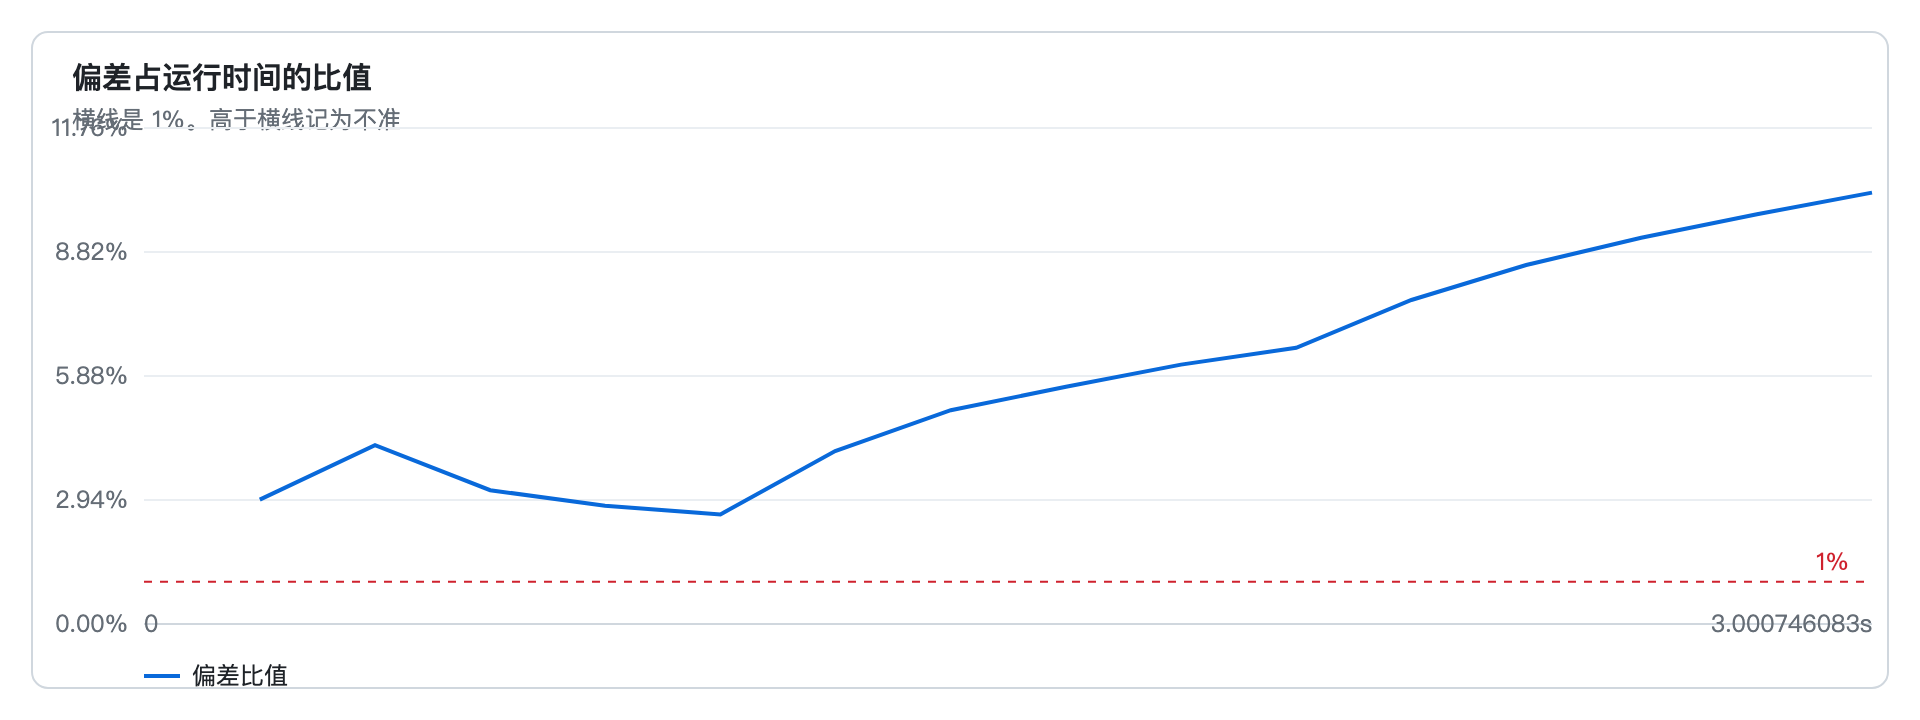
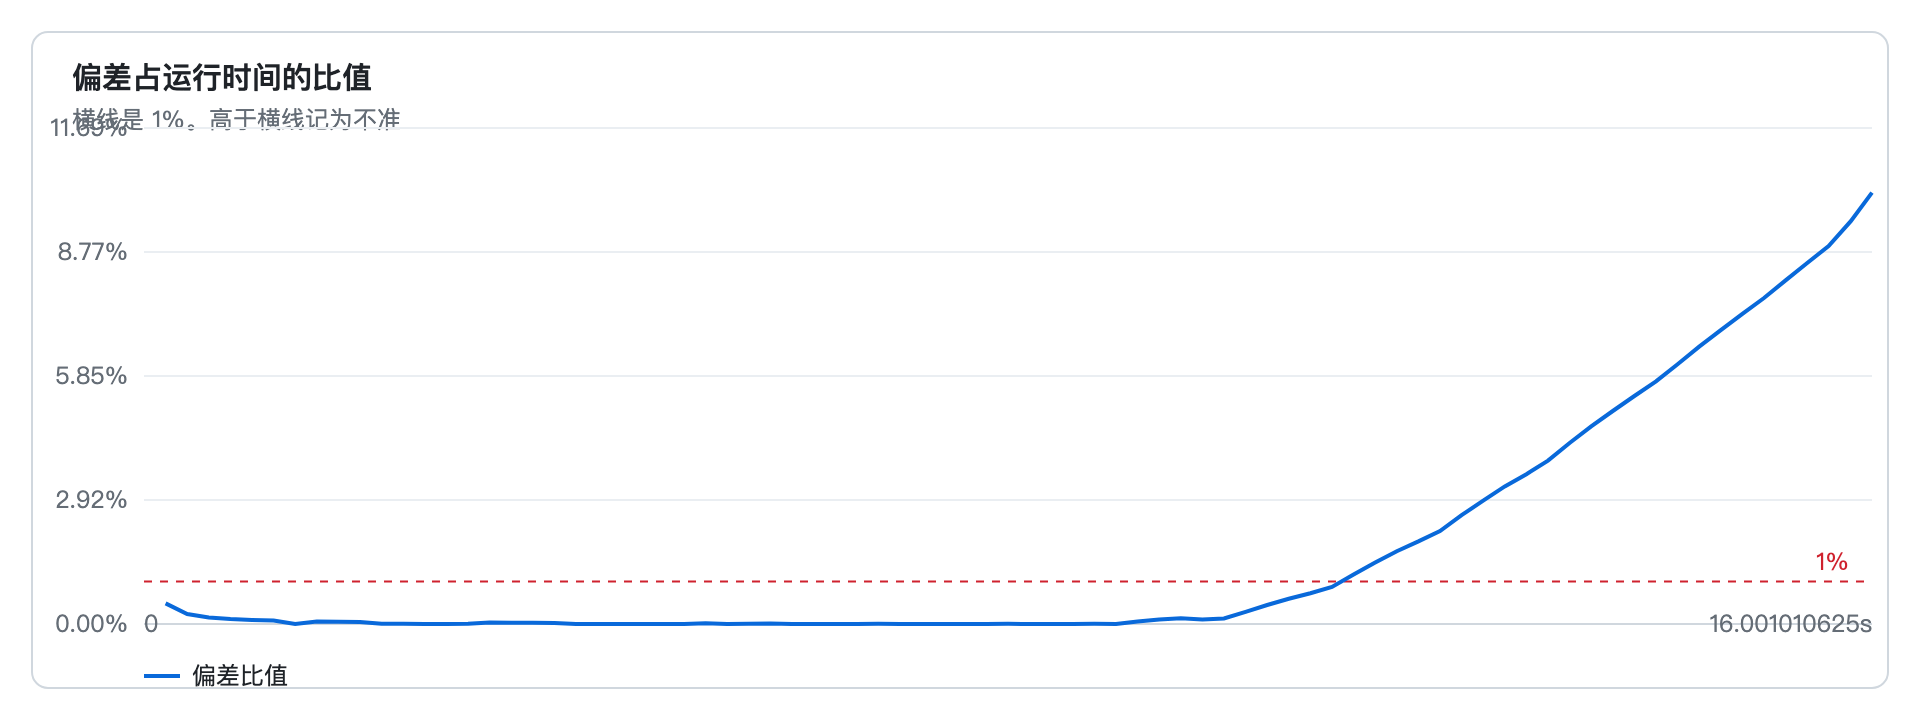
fix: 时钟基准从 1000 条打包线开始

diff --git a/example/bench/clock.go b/example/bench/clock.go
@@ -13,7 +13,7 @@ const (
 	clockLimit     = 0.01
 	clockBlowup    = 0.10
 	clockRampMax   = 5 * time.Minute
-	clockLineStart = 10000
+	clockLineStart = 1000
 	clockLineBatch = 1000
 	clockLineEvery = time.Second
 	clockChartW    = 960

diff --git a/README.md b/README.md
@@ -504,20 +504,21 @@ go run ./example/bench -duration 30s
 #### 负载
 
 <!-- clock:start -->
-真实模式。从 10000 条打包线开始，每秒增加 1000 条，最多测 5 分钟。每条线到货时查商品、扣库存，再记下出货。小包和文件扫描、打包各等 2ms，大包和易碎扫描等 4ms、打包等 3ms，下一单再等 5ms。等待是仿真延迟，处理函数不做空转。比值超过 1% 记为不准，达到 10% 停止。测量到 3.001s。
+真实模式。从 1000 条打包线开始，每秒增加 1000 条，最多测 5 分钟。每条线到货时查商品、扣库存，再记下出货。小包和文件扫描、打包各等 2ms，大包和易碎扫描等 4ms、打包等 3ms，下一单再等 5ms。等待是仿真延迟，处理函数不做空转。比值超过 1% 记为不准，达到 10% 停止。测量到 16.001s。
 
 ![偏差占运行时间的比值](example/bench/clock.png)
 
 | 线条 | 运行 | 仿真 | 偏差 | 比值 | 结论 |
 | ---: | --- | --- | --- | ---: | --- |
-| 10000 | 200.928ms | 195ms | 5.928ms | 2.9504% | 越过 1% |
-| 12000 | 3.001s | 2.694s | 306.746ms | 10.2223% | 离谱 |
+| 12000 | 11.201s | 11.07s | 130.525ms | 1.1653% | 越过 1% |
+| 16000 | 16.001s | 14.374s | 1.627s | 10.1682% | 离谱 |
 
 ```bash
 go run ./example/bench -clock
 ```
 
 <!-- clock:end -->
+
 
 
 

diff --git a/docs/changelog.md b/docs/changelog.md
@@ -8,7 +8,7 @@
 - 改动范围：`example/bench -robust`，`example/bench/robust.png`，README 时钟偏差一节，详细设计第 7 章。
 - 影响：不改变引擎接口。比值在结束时仍高于 1%，或等待事件变少，记为拉不回。不兼容变更：无。
 
-- 改动内容：基准增加真实模式下的时钟偏差。从 10000 条打包线起，每秒增加 1000 条，最多测 5 分钟。每条线查商品、扣库存、记出货，并按扫描、打包和下一单间隔等待，不做空转。比值是偏差的绝对值除以运行的墙钟，大于 1% 记为不准，达到 10% 停止，并写入时钟图。
+- 改动内容：基准增加真实模式下的时钟偏差。从 1000 条打包线起，每秒增加 1000 条，最多测 5 分钟。每条线查商品、扣库存、记出货，并按扫描、打包和下一单间隔等待，不做空转。比值是偏差的绝对值除以运行的墙钟，大于 1% 记为不准，达到 10% 停止，并写入时钟图。
 - 改动范围：`example/bench -clock`，`example/bench/clock.png`，README 基准测试一节，详细设计第 7 章。
 - 影响：快照、JSON 和 Prometheus 不增加字段。吞吐表不改写。不兼容变更：无。
 
